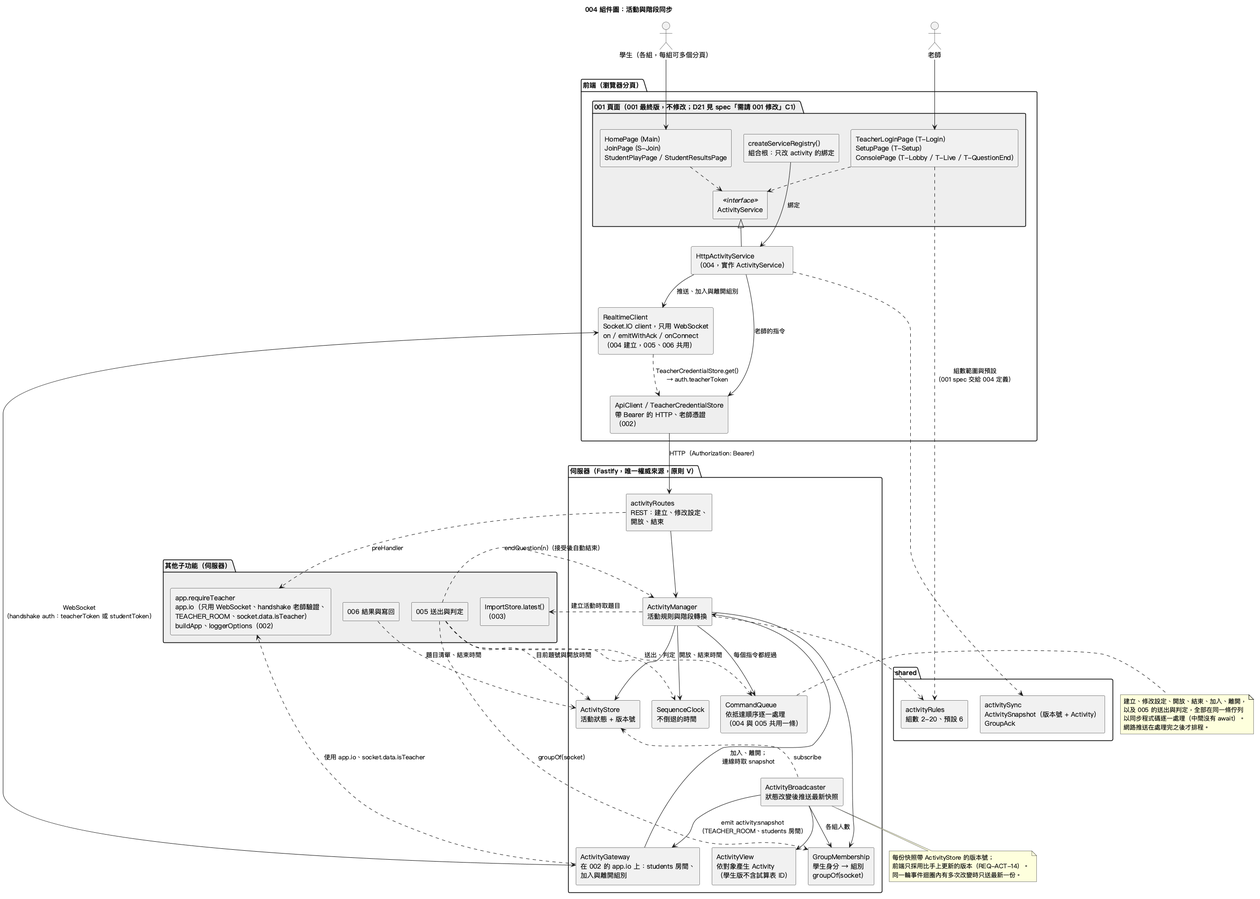
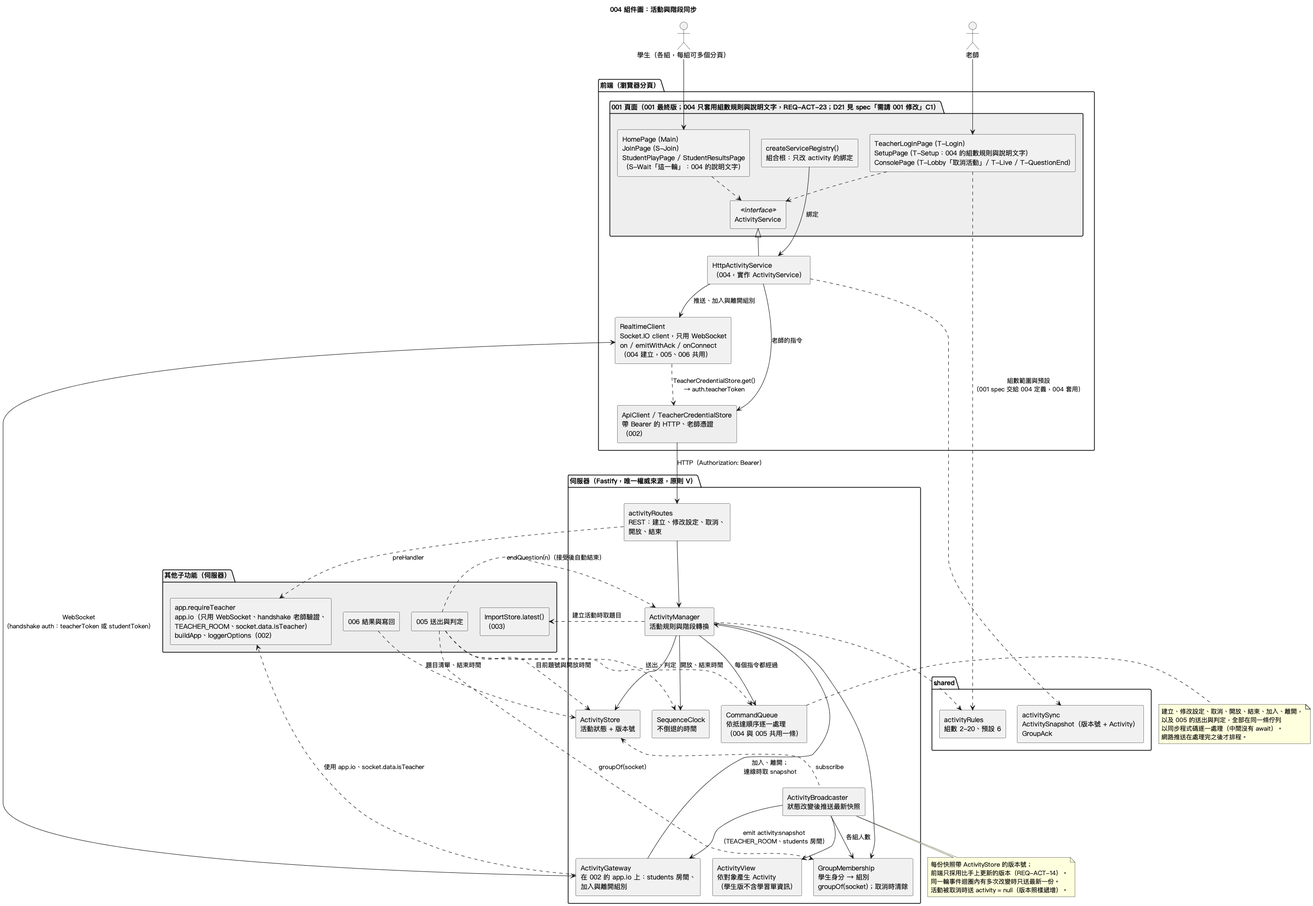
spec(004): add pre-start cancel and setup page rules
feature-split and 001 already let the teacher cancel an activity before
question 1 opens, but 004 still allowed only one activity per server run
and students were never told the activity was gone. 001 shipped without
004's group count rules and texts, and students no longer receive the
sheet title.

Refs: REQ-ACT-03, REQ-ACT-19, REQ-ACT-22, REQ-ACT-23, AC-33–AC-36, SC-007

diff --git a/specs/004-buzzer-session/spec.md b/specs/004-buzzer-session/spec.md
@@ -8,7 +8,7 @@
 
 **Input**: User description: "子功能：004 活動與階段同步（依 docs/feature-split.md，R3、R11）。老師建立活動並設定組數；學生加入時選擇組別；老師逐題開啟、結束搶答；所有使用者的活動階段同步，學生頁面隨階段自動切換。實作 001 的 ActivityService，處理 001 的 D4、D5、D9、D21、D22。"
 
-**追溯**: `docs/assignment.md` R3、R11；R1（伺服器拒絕非老師的操作，沿用 002）、R7（學生依組別加入）；001 D4、D5、D9、D21、D22；feature-split 第 4 節（同一組可有多位學生；結束最後一題時活動直接結束；最後一題被接受時活動一併結束）
+**追溯**: `docs/assignment.md` R3、R11；R1（伺服器拒絕非老師的操作，沿用 002）、R7（學生依組別加入）；001 D4、D5、D9、D21、D22；001 FR-026、FR-050、FR-051（取消活動）；feature-split 第 4 節（同一組可有多位學生；結束最後一題時活動直接結束；最後一題被接受時活動一併結束；只能在準備中取消活動；開放第 1 題後不能提前結束活動）
 
 **圖表**: `diagrams/004-component.puml`、`diagrams/004-class.puml`、`diagrams/004-sequence.puml`
 
@@ -19,6 +19,8 @@
 004 負責：
 
 - 老師建立活動、修改組數（R3）。
+- 老師在準備中（開放第 1 題之前）取消活動；取消後活動不存在，已加入的學生回到選組頁的「目前沒有活動」（R3、feature-split 第 4 節）。
+- 活動設定頁的組數規則（預設值、「−」「+」何時不可用）與 004 負責的說明文字（001 FR-023、FR-051 交給 004 定義；001 已完成，由 004 在這兩頁套用，不增減欄位、按鈕或頁面）。
 - 學生不需登入，選擇組別加入；同一組可以有多位學生（R7）。
 - 老師依題號一題一題開放、結束搶答；結束最後一題時活動一併結束（R3、D9）。
 - 活動階段只存在伺服器，任何改變都主動通知所有分頁；學生頁面依階段自動切換（R11）。
@@ -34,13 +36,13 @@
 | 公布每題與全部結果、寫回學習單 | 006 |
 | 頁面、按鈕與頁面切換的畫面 | 001（004 配合 001 的現況；仍需 001 修改的只有 D21，見「需請 001 修改」） |
 
-不做：每題限時與倒數、公平模式（E3）、活動名稱、開新一輪（一次伺服器執行期間只有一場活動）、學生加入網址、連線／離線狀態顯示、活動狀態存檔（伺服器重啟後活動消失）。
+不做：每題限時與倒數、公平模式（E3）、活動名稱、開新一輪（活動開放第 1 題之後就不能取消或提前結束，結束後也不能建立新活動；同一時間只有一場活動）、學生加入網址、連線／離線狀態顯示、活動狀態存檔（伺服器重啟後活動消失）。
 
 ## Clarifications
 
 ### Session 2026-11-21
 
-- Q: 組數的範圍？組數在邊界時「−」「+」怎麼呈現？（001 D4）→ A: 2 到 20 組的整數；組數為 2 時「−」不可用、為 20 時「+」不可用；伺服器再驗證一次（REQ-ACT-02）。（2026-11-22：001 spec 已把範圍、預設值與「−」「+」何時不可用交給 004 定義，001 實作 T-Setup 時照本規則，不列為請 001 修改）
+- Q: 組數的範圍？組數在邊界時「−」「+」怎麼呈現？（001 D4）→ A: 2 到 20 組的整數；組數為 2 時「−」不可用、為 20 時「+」不可用；伺服器再驗證一次（REQ-ACT-02）。（2026-11-22：001 spec 已把範圍、預設值與「−」「+」何時不可用交給 004 定義，不列為請 001 修改。2026-11-26：001 已完成但沒有套用，改由 004 套用，見 Session 2026-11-26）
 - Q: 組數的預設值？（001 D5）→ A: 6 組（REQ-ACT-02、AC-01）。
 - Q: 結束最後一題時，活動是否一併結束？（001 D9）→ A: 是。結束最後一題後階段直接是「已結束」，不另外經過最後一題的「本題已結束」（REQ-ACT-06）。（2026-11-22：feature-split 第 4 節已定案，001 的頁面切換已配合）
 - Q: 老師在活動進行中重新整理頁面時，活動要結束，還是讓老師登入後回到控制台？（001 D21）→ A: 活動繼續；老師用同一個帳號重新登入後，直接進入控制台目前的階段（REQ-ACT-21，需請 001 修改 C1）。（2026-11-22 修訂：001 修改前為暫時限制，見 Session 2026-11-22）
@@ -53,7 +55,7 @@
 - Q: 「已加入人數」是在線人數還是加入人數？→ A: 加入後沒有離開的學生分頁數；分頁關閉不減少（001 已拿掉連線／離線狀態）。
 - Q: 題目依什麼順序開放？可以跳題或重開嗎？→ A: 依題號由小到大一題一題開放，同一時間最多一題搶答中；不能跳題，已結束的題目不能重開（REQ-ACT-05）。
 - Q: 老師按「結束並公布結果」與 005 的「接受後自動結束」同時發生怎麼辦？→ A: 只結束一次；之後的要求得到目前的活動，不視為錯誤。連點「開放第 n 題」也一樣（REQ-ACT-07、AC-22）。
-- Q: 已結束的活動能不能開新一輪，或建立新活動？→ A: 都不行（不做開新一輪）；同一時間、一次伺服器執行期間只有一場活動（REQ-ACT-03）。
+- Q: 已結束的活動能不能開新一輪，或建立新活動？→ A: 都不行（不做開新一輪）；同一時間只有一場活動（REQ-ACT-03）。（2026-11-26 修訂：原本寫「一次伺服器執行期間只有一場活動」；依 feature-split 第 4 節，準備中取消後可以重新建立，見 Session 2026-11-26）
 - Q: 每題限時、公平模式、活動名稱、學生加入網址要不要做？→ A: 都不做。
 - Q: 活動狀態要不要存檔？→ A: 不要。只存在伺服器記憶體，伺服器重啟就沒了。
 - Q: 階段同步的時序如何保證？→ A: 沿用舊設計：狀態只在伺服器；改變狀態的操作依抵達順序逐一處理；每份推送的狀態帶遞增的版本號，頁面只採用較新的版本（REQ-ACT-14、17）。
@@ -65,31 +67,50 @@
 
 - Q: 001 的 `joinGroup` 回傳 `Promise<Activity>`，「第 1 題開放後換組」「沒有第 n 組」「目前沒有活動」怎麼呈現？→ A: 以 `UnexpectedError` reject，訊息寫出原因，顯示在選組頁的共通錯誤訊息區（001 FR-009），頁面停留在選組頁（REQ-ACT-11、AC-12）。不再請 001 把回傳型別改成含 `ValidationError`。
 - Q: D21 需要 001 在老師登入後依階段回到控制台，001 修改前怎麼辦？→ A: 伺服器保留活動，學生照常進行；老師重新登入後依 001 現況進入挑選學習單頁，回不到控制台。這是暫時限制：在這段期間沒有人能開放或結束題目；再建立活動會被拒絕並說明原因；要重新開始只能重新啟動伺服器（REQ-ACT-21、AC-26、AC-32）。
-- Q: 誰是老師？別人登入時原本的老師會怎樣？→ A: 依 001 與 feature-split 最新版，以 Google 登入的人就是老師；伺服器同一時間只有一個有效的老師憑證，任何人登入都會取代前一位老師（002）。被取代的老師分頁不再收到老師版的活動狀態，它的老師操作會被拒絕；新登入的人接手同一場活動（D21 的 001 修改完成後才能回到控制台）。
+- Q: 誰是老師？別人登入時原本的老師會怎樣？→ A: 依 001 與 feature-split 最新版，以 Google 登入的人就是老師；伺服器同一時間只有一個有效的老師憑證，任何人登入都會取代前一位老師（002）。被取代的老師分頁不再收到老師版的活動狀態，它的老師操作會被拒絕（2026-11-26：依 002 #18，這個分頁保留作廢的憑證，每次老師操作都顯示「老師登入已失效，請回首頁重新登入」）；新登入的人接手同一場活動（D21 的 001 修改完成後才能回到控制台）。
 - Q: 學生加入組別後去哪一頁？→ A: 依 001 最終版：準備中 → 等待開放頁；搶答中 → 由頁面再查本組這一題是否已送出（005）；本題已結束 → 本題結果頁；已結束 → 全部結果頁。004 只回傳活動，不決定頁面（AC-13、AC-14）。
 - Q: 控制台・準備中載入時要不要再查目前的活動？→ A: 不要。依 001 最終版，T-Lobby 使用建立活動或儲存設定回傳的活動，之後只靠「活動變化通知」更新人數（REQ-ACT-16）。
-- Q: 活動設定頁的「學生加入方式的說明」與等待開放頁的「這一輪的說明」由誰寫？→ A: 001 spec 已規定文字依 feature-split 3.2 與 004、005 的規則撰寫，所以由本 spec「說明文字」一節提供，001 實作時照用，不列為請 001 修改。
+- Q: 活動設定頁的「學生加入方式的說明」與等待開放頁的「這一輪的說明」由誰寫？→ A: 001 spec 已規定文字依 feature-split 3.2 與 004、005 的規則撰寫，所以由本 spec「說明文字」一節提供，001 實作時照用，不列為請 001 修改。（2026-11-26：001 已完成，見 Session 2026-11-26）
+
+### Session 2026-11-26
+
+依 main 上的 `docs/feature-split.md`（2026-11-24 加入取消活動）、001 最終版（Session 2026-11-24、FR-026、FR-050、FR-051、RD-12）與 002 #18 修訂；使用者決定以 main 上的檔案為準調整 004。
+
+- Q: 老師能否取消活動？→ A: 只能在準備中（開放第 1 題之前）取消。取消後活動不存在：老師回到挑選學習單頁，可以重新建立活動；已加入的學生回到選組頁的「目前沒有活動」（REQ-ACT-22、AC-33～36；feature-split 第 4 節、001 FR-026）。
+- Q: 開放第 1 題之後能否取消或提前結束活動？→ A: 不能，活動只在最後一題結束時結束；伺服器拒絕並說明「第 1 題開放後不能取消活動」（REQ-ACT-22、AC-35）。
+- Q: 取消後學生的加入紀錄怎麼辦？→ A: 全部清除。下一場活動的各組人數從 0 開始；學生分頁保留原本的學生身分，但不再屬於任何組別，要重新選組（REQ-ACT-22、AC-34）。
+- Q: 活動被取消時，學生頁面怎麼知道？→ A: 依 001 RD-12，階段改變的通知以「沒有活動」表示活動已被取消；首頁、選組頁、等待開放頁收到後切換（REQ-ACT-16、AC-33）。
+- Q: 連點「確定取消活動」，第二次時活動已經不存在怎麼辦？→ A: 視為成功、不改變，與連點開放或結束相同（REQ-ACT-07、AC-36）。
+- Q: 允許取消後，「已經有活動時再建立」的訊息還要說「重新啟動伺服器」嗎？→ A: 要。這個情況只會在老師失去控制台時發生（D21 暫時限制下重新登入，或被別人登入取代），老師回不到控制台，也就無法取消；要重新開始仍只能重新啟動伺服器（AC-06、AC-32）。
+- Q: 001 已完成，但活動設定頁的組數沒有上下限（「−」可減到 0），預設值寫死在頁面，等待開放頁的「這一輪」只有題數，誰來補？→ A: 依 001 spec 範圍原則與 FR-023，這些規則屬於 004，001 只保留位置。由 004 在活動設定頁與等待開放頁套用 004 的規則與文字，不增減欄位、按鈕或頁面，所以不需修改 001 的 spec（REQ-ACT-02、REQ-ACT-23、AC-01、AC-02）。
+- Q: 活動設定頁「學生加入」的文字以誰為準？→ A: 以 001 已實作的文字為基礎，加上 004 的換組規則（「說明文字」一節）。
+- Q: 學生收到的活動資料要遮掉哪些學習單資訊？→ A: 學生頁面用不到任何學習單資訊，試算表 ID、標題、工作表名稱都不給（REQ-ACT-19）。
+- Q: D21 的 C1 狀態？→ A: 001 已完成且沒有納入 C1，001 spec 的 D21 仍待處理。C1 保留為請 001 修改的項目，修改前維持暫時限制（「需請 001 修改」）。
 
 ## User Scenarios & Testing *(mandatory)*
 
 ### User Story 1 - 老師建立活動並設定組數 (Priority: P1)
 
-老師匯入學習單後，在活動設定頁設定組數（預設 6 組），建立活動。活動進入「準備中」，學生頁面看得到這個活動與組別。開放第 1 題之前，老師可以修改組數。
+老師匯入學習單後，在活動設定頁設定組數（預設 6 組），建立活動。活動進入「準備中」，學生頁面看得到這個活動與組別。開放第 1 題之前，老師可以修改組數，也可以取消活動、回到挑選學習單重新建立。
 
 **Why this priority**: 沒有活動就沒有搶答（R3）。
 
-**Independent Test**: 用一份假的匯入結果建立 4 組的活動，檢查活動的題目、組別與階段；再改成 6 組，開著的學生分頁跟著更新。
+**Independent Test**: 用一份假的匯入結果建立 4 組的活動，檢查活動的題目、組別與階段；再改成 6 組，開著的學生分頁跟著更新；取消活動後學生分頁回到「目前沒有活動」，再建立一次各組人數從 0 開始。
 
 **Acceptance Scenarios**:
 
-1. **AC-01** **Given** 老師已登入且已成功匯入一份 4 題的學習單，**When** 進入活動設定頁（建立模式），**Then** 組數預設為 6，組別清單列出第 1–6 組。
-2. **AC-02** **Given** 活動設定頁的組數為 2，**When** 檢視組數欄位，**Then**「−」不可用；組數為 20 時「+」不可用。
+1. **AC-01** **Given** 老師已登入且已成功匯入一份 4 題的學習單，**When** 進入活動設定頁（建立模式），**Then** 組數預設為 6，組別清單列出第 1–6 組；「這一輪」的學生加入說明為「說明文字」一節的內容。
+2. **AC-02** **Given** 活動設定頁的組數為 2，**When** 檢視組數欄位，**Then**「−」不可用，連按也不會小於 2；組數為 20 時「+」不可用，連按也不會大於 20。
 3. **AC-03** **Given** 活動設定頁的組數為 4，**When** 老師按「建立活動」，**Then** 活動進入「準備中」，題目為匯入的 4 題，第 1–4 組各 0 人；已開著首頁或選組頁的分頁在 1 秒內看到這個活動。
 4. **AC-04** **Given** 有人繞過頁面直接要求組數 1、21 或 3.5，**When** 建立活動或儲存設定，**Then** 系統拒絕，在組數欄位旁顯示「組數必須是 2 到 20 之間的整數」，活動不變。
 5. **AC-05** **Given** 準備中且第 5 組已有 1 位學生，**When** 老師把組數改成 4 並儲存，**Then** 系統拒絕並顯示「第 5 組已有學生加入，組數不能少於 5」；改成 8 則成功，所有分頁在 1 秒內看到 8 組。
 6. **AC-06** **Given** 已經有活動（任何階段），**When** 再要求建立活動，**Then** 系統拒絕，共通錯誤訊息區說明「已經有進行中的活動，不能再建立；要重新開始請重新啟動伺服器」，原本的活動不變。
-7. **AC-07** **Given** 一個沒有老師身分的分頁（包括與老師在同一個瀏覽器的學生分頁），**When** 要求建立活動、修改設定、開放或結束題目，**Then** 系統拒絕，活動不變。
+7. **AC-07** **Given** 一個沒有老師身分的分頁（包括與老師在同一個瀏覽器的學生分頁），**When** 要求建立活動、修改設定、取消活動、開放或結束題目，**Then** 系統拒絕，活動不變。
 8. **AC-08** **Given** 第 1 題已開放過，**When** 要求修改設定，**Then** 系統拒絕並說明「第 1 題開放後不能修改設定」。
+9. **AC-33** **Given** 準備中、4 組，第 3 組有 2 個學生分頁在等待開放頁、另一個學生分頁停在選組頁且已選第 1 組、一個分頁在首頁，**When** 老師在控制台・準備中按「取消活動」並在確認視窗按「確定取消活動」，**Then** 老師進入挑選學習單頁；1 秒內等待開放頁的分頁切到選組頁，選組頁顯示「目前沒有活動，請等老師建立活動」且已選的組別被清除，首頁顯示沒有活動。
+10. **AC-34** **Given** AC-33 之後，**When** 老師挑選學習單並建立 4 組的活動，原本在第 3 組的學生分頁加入第 1 組，**Then** 建立成功；各組人數從 0 開始，第 1 組 1 人、第 3 組 0 人。
+11. **AC-35** **Given** 第 1 題已開放過（之後任何階段），**When** 有人繞過頁面要求取消活動，**Then** 系統拒絕並說明「第 1 題開放後不能取消活動」，活動不變。
+12. **AC-36** **Given** 沒有活動（例如連點「確定取消活動」的第二次），**When** 老師要求取消活動，**Then** 視為成功，不改變任何狀態。
 
 ---
 
@@ -103,14 +124,14 @@
 
 **Acceptance Scenarios**:
 
-1. **AC-09** **Given** 活動準備中、6 組，**When** 學生在選組頁選第 3 組並按「加入第 3 組」，**Then** 進入等待開放頁；老師控制台在 1 秒內顯示第 3 組人數加 1。
+1. **AC-09** **Given** 活動準備中、6 組，**When** 學生在選組頁選第 3 組並按「加入第 3 組」，**Then** 進入等待開放頁，「這一輪」顯示題數與「說明文字」一節的內容；老師控制台在 1 秒內顯示第 3 組人數加 1。
 2. **AC-10** **Given** 第 3 組已有 1 人，**When** 另一個分頁也加入第 3 組，**Then** 加入成功，第 3 組為 2 人。
 3. **AC-11** **Given** 準備中，學生在第 3 組，**When** 按「選錯組別？重新選擇」後加入第 5 組，**Then** 第 3 組人數減 1、第 5 組加 1。
 4. **AC-12** **Given** 第 1 題已開放過（之後任何階段），**When** 已在第 3 組的分頁要求加入第 5 組或離開組別，**Then** 系統拒絕，頁面停留在原頁，共通錯誤訊息區顯示「第 1 題開放後不能換組，你在第 3 組」；該分頁仍在第 3 組。
 5. **AC-13** **Given** 第 2 題搶答中，**When** 一個還沒加入任何組別的新分頁加入第 4 組，**Then** 加入成功，回傳的活動為第 2 題搶答中；頁面依 001 進入第 2 題（本組還沒送出時為作答頁，同組組員已送出時為等待判定頁，由 005 判斷）。
 6. **AC-14** **Given** 學生在第 3 組，第 2 題搶答中，**When** 學生重新整理後從首頁選「我是學生」、選第 3 組加入，**Then** 回到第 3 組（人數不重複計算），回傳的活動為第 2 題搶答中，頁面依 001 進入第 2 題；伺服器判斷的組別仍是第 3 組。
 7. **AC-15** **Given** 沒有活動，**When** 學生開啟選組頁，**Then** 顯示「目前沒有活動，請等老師建立活動」；老師建立活動後 1 秒內自動列出組別。
-8. **AC-16** **Given** 任一學生分頁，**When** 檢查它從系統收到的所有活動資料，**Then** 不含學習單的試算表 ID，也不含任何組別的作答資料。
+8. **AC-16** **Given** 任一學生分頁，**When** 檢查它從系統收到的所有活動資料，**Then** 不含學習單的試算表 ID、標題與工作表名稱，也不含任何組別的作答資料。
 
 ---
 
@@ -184,6 +205,10 @@
 - 活動進行中有人（原本的老師或其他人）以 Google 登入：依 002，新登入的人取代前一位老師，前一位老師分頁的老師操作被拒絕、不再收到老師版的活動狀態；活動本身不變（AC-32）。
 - 伺服器重新啟動：活動與所有組別都消失（RD-05 接受的限制）。已開著的頁面不會自動切換；重新整理後首頁顯示「目前沒有活動」，學生原本的組別不再有效。
 - 已結束的活動不能重新開始，也不能建立新活動（不做開新一輪）；要再玩一場須重新啟動伺服器。
+- 老師取消活動的同時有學生按「加入第 n 組」：以伺服器處理的先後為準；加入在後時被拒絕，共通錯誤訊息區顯示「目前沒有活動」，選組頁隨後顯示「目前沒有活動」（AC-33）。
+- 老師取消活動的同時，同一個老師憑證的另一個分頁（例如瀏覽器「複製分頁」）開放第 1 題：以伺服器處理的先後為準；開放在先時取消被拒絕（AC-35），取消在先時開放得到「目前沒有活動」。
+- 準備中老師重新整理並重新登入（001 C1 完成前）：回不到控制台，所以也無法取消活動；再建立活動被拒絕，要重新開始只能重新啟動伺服器（AC-32）。
+- 取消後學生分頁保留原本的學生身分，但不屬於任何組別；重新整理後選任何一組都視為第一次加入（AC-34）。
 - 匯入的學習單在活動建立後才改變：不影響活動，活動的題目在建立時固定。
 
 ## Requirements *(mandatory)*
@@ -194,16 +219,18 @@
 
 - **REQ-ACT-01**（R3）：老師 MUST 能以 003 最近一次成功匯入的學習單建立活動；活動的題目在建立時固定。沒有成功匯入的學習單時 MUST 拒絕並說明「請先匯入學習單」。
 - **REQ-ACT-02**（R3、001 D4、D5）：組數 MUST 是 2 到 20 之間的整數，預設 6；組別名稱為「第 n 組」。活動設定頁的組數為 2 時「−」不可用、為 20 時「+」不可用（001 spec US2 AC-7、FR-023 已把這些規則交給 004；001 實作 T-Setup 時引用 004 提供的常數）。伺服器 MUST 再驗證一次，不符時拒絕，組數欄位旁顯示「組數必須是 2 到 20 之間的整數」（原則 VII）。
-- **REQ-ACT-03**（R3）：系統同一時間 MUST 最多只有一場活動；已有活動時（任何階段）MUST 拒絕建立新活動。
+- **REQ-ACT-03**（R3）：系統同一時間 MUST 最多只有一場活動；已有活動時（任何階段）MUST 拒絕建立新活動，並說明「已經有進行中的活動，不能再建立；要重新開始請重新啟動伺服器」。活動被取消（REQ-ACT-22）後 MUST 允許再建立。
 - **REQ-ACT-04**（R3、R7）：老師 MUST 只能在第 1 題開放前修改組數；新組數 MUST 不少於目前已有學生的最大組別編號，否則拒絕並說明「第 n 組已有學生加入，組數不能少於 n」。
+- **REQ-ACT-22**（R3、feature-split 第 4 節、001 FR-026）：老師 MUST 能在準備中取消活動。取消後活動不存在：所有組別與學生的加入紀錄 MUST 一併清除，下一場活動的人數從 0 開始；所有分頁 MUST 收到「沒有活動」（REQ-ACT-16）。第 1 題開放後 MUST 拒絕取消，說明「第 1 題開放後不能取消活動」，活動不變；系統 MUST NOT 提供開放第 1 題後提前結束活動的方式。沒有活動時要求取消 MUST 視為成功、不改變狀態（連點）。
+- **REQ-ACT-23**（001 FR-023、FR-051）：活動設定頁的組數 MUST 以 REQ-ACT-02 的預設值開始（建立模式），「−」「+」依 REQ-ACT-02 不可用；活動設定頁「學生加入」與等待開放頁「這一輪」MUST 顯示「說明文字」一節的內容。只套用 004 的規則與文字，MUST NOT 增減 001 的欄位、按鈕或頁面。
 
 #### 逐題開放與結束
 
 - **REQ-ACT-05**（R3）：活動階段 MUST 依序為「準備中 → 第 1 題搶答中 → 第 1 題已結束 → 第 2 題搶答中 → … → 最後一題已結束」，只能往前、不能倒退，同一時間最多一題搶答中。準備中只能開放第 1 題；第 n 題已結束時只能開放第 n+1 題；只能結束目前搶答中的那一題。不符合時 MUST 拒絕並說明，活動不變。
 - **REQ-ACT-06**（R3、001 D9）：結束最後一題時，活動 MUST 一併進入「已結束」，不另外顯示最後一題的「已結束」階段（feature-split 第 4 節）。
-- **REQ-ACT-07**（R3）：重複要求開放目前已開放的題目，或結束已經結束的題目（連點、或老師結束與 005 的自動結束同時發生），MUST 只生效一次，之後的要求得到目前的活動，不視為錯誤。
+- **REQ-ACT-07**（R3）：重複要求開放目前已開放的題目、結束已經結束的題目（連點、或老師結束與 005 的自動結束同時發生），或取消已經不存在的活動，MUST 只生效一次，之後的要求得到目前的活動，不視為錯誤。
 - **REQ-ACT-08**（R3、005）：結束一題的操作 MUST 也能由 005 在老師接受答案時觸發，效果與老師按「結束並公布結果」相同；最後一題被接受時活動一併結束（feature-split 3.2、第 4 節）。
-- **REQ-ACT-09**（R1、原則 VI）：建立活動、修改設定、開放與結束題目 MUST 只有老師（以 Google 登入、持有目前有效老師憑證的分頁）能執行；伺服器依 002 的驗證拒絕其他請求。同一個瀏覽器的學生分頁、被後來登入者取代的前一位老師分頁也不能執行。
+- **REQ-ACT-09**（R1、原則 VI）：建立活動、修改設定、取消活動、開放與結束題目 MUST 只有老師（以 Google 登入、持有目前有效老師憑證的分頁）能執行；伺服器依 002 的驗證拒絕其他請求。同一個瀏覽器的學生分頁、被後來登入者取代的前一位老師分頁也不能執行。
 
 #### 組別
 
@@ -214,12 +241,12 @@
 
 #### 階段同步
 
-- **REQ-ACT-14**（R11、原則 V）：活動狀態（階段、目前題號、組數、各組已加入人數）MUST 只存在伺服器。狀態每次改變，伺服器 MUST 主動把完整的狀態送給所有連線中的分頁；每份狀態帶一個遞增的版本號，頁面只採用比目前更新的版本，不自行推導或修改狀態。
+- **REQ-ACT-14**（R11、原則 V）：活動狀態（有沒有活動、階段、目前題號、組數、各組已加入人數）MUST 只存在伺服器。狀態每次改變（包括活動被取消而變成沒有活動），伺服器 MUST 主動把完整的狀態送給所有連線中的分頁；每份狀態帶一個遞增的版本號，頁面只採用比目前更新的版本，不自行推導或修改狀態。
 - **REQ-ACT-15**（R11）：分頁連線或重新連線時 MUST 立即收到目前的狀態。
-- **REQ-ACT-16**（R11）：階段改變時，首頁與所有學生頁面 MUST 在 1 秒內依 001「階段推動的切換」表自動切換；老師端在學生加入或離開時 MUST 在 1 秒內更新各組已加入人數（控制台・準備中以建立或儲存設定回傳的活動為起點，之後只靠變化通知更新）。
-- **REQ-ACT-17**（R11）：改變活動狀態的操作（建立、修改設定、開放與結束題目、加入與離開組別，以及 005 的送出與判定）MUST 由伺服器依抵達順序逐一處理，一筆處理完才處理下一筆；同時抵達的操作以處理的先後為準。
+- **REQ-ACT-16**（R11）：階段改變時（包括活動被建立或取消），首頁與所有學生頁面 MUST 在 1 秒內依 001「階段推動的切換」表自動切換；活動被取消時，通知的內容是「沒有活動」（001 RD-12）；老師端在學生加入或離開時 MUST 在 1 秒內更新各組已加入人數（控制台・準備中以建立或儲存設定回傳的活動為起點，之後只靠變化通知更新）。
+- **REQ-ACT-17**（R11）：改變活動狀態的操作（建立、修改設定、取消、開放與結束題目、加入與離開組別，以及 005 的送出與判定）MUST 由伺服器依抵達順序逐一處理，一筆處理完才處理下一筆；同時抵達的操作以處理的先後為準。
 - **REQ-ACT-18**（R4、005）：系統 MUST 記錄每一題開放與結束的時間，時間不受電腦時鐘調整影響（不會倒退），供 005 計算「開放後經過的時間」、006 顯示結束時間。
-- **REQ-ACT-19**（原則 VI）：學生分頁收到的活動狀態 MUST 只包含階段、目前題號、題目清單（題號、類型、題目敘述、小題與填空格位置）、組數與各組已加入人數；不含學習單的試算表 ID，也不含任何作答資料。這個限制在伺服器端執行。
+- **REQ-ACT-19**（原則 VI）：學生分頁收到的活動狀態 MUST 只包含階段、目前題號、題目清單（題號、類型、題目敘述、小題與填空格位置）、組數與各組已加入人數；不含學習單的試算表 ID、標題與工作表名稱，也不含任何作答資料。這個限制在伺服器端執行。
 - **REQ-ACT-20**（001 D22）：即時連線 MUST 只使用 WebSocket，不使用長輪詢。
 
 #### 老師重新整理
@@ -233,23 +260,23 @@
 
 ### 說明文字
 
-001 在活動設定頁「學生加入方式的說明」與等待開放頁「這一輪的說明」只保留位置，文字依 feature-split 3.2 與 004、005 的規則撰寫（001 spec「相對於設計稿的調整」末段、FR-023）。004 負責的部分文字如下，001 實作時照用；成功規則的文字由 005 提供：
+001 在活動設定頁「學生加入方式的說明」與等待開放頁「這一輪的說明」只保留位置，文字依 feature-split 3.2 與 004、005 的規則撰寫（001 spec「相對於設計稿的調整」末段、FR-023、FR-051）。001 已完成：活動設定頁的「學生加入」已有文字，等待開放頁的「這一輪」只顯示題數。004 負責的部分文字如下，由 004 套用（REQ-ACT-23）；成功規則的文字由 005 提供，001 已有的成功規則文字 004 不改：
 
-- 活動設定頁「學生加入方式的說明」：「學生在首頁選『我是學生』，選擇組別後加入，不需要登入。同一組可以有多位學生。第 1 題開放後不能換組。」
-- 等待開放頁「這一輪的說明」：「老師會一題一題開放。第 1 題開放後不能換組。」
+- 活動設定頁「學生加入」：「學生在首頁選「我是學生」，再選自己的組別加入。同一組可以有多位同學，任何人送出都代表整組。第 1 題開放後不能換組。」（001 已有的文字加上最後一句）
+- 等待開放頁「這一輪」：保留 001 的題數，下方加上「老師會一題一題開放。第 1 題開放後不能換組。」
 
 ### 需請 001 修改
 
 | # | 要改什麼 | 為什麼 | 修改前的處理 |
 | --- | --- | --- | --- |
-| C1 | 老師登入成功後的目的頁：先呼叫 `ActivityService.getCurrentActivity()`，沒有活動時進入 T-Pick（不變）；`PREPARING` → T-Lobby、`OPEN` → T-Live（第 n 題）、`QUESTION_ENDED` → T-QuestionEnd（第 n 題）、`FINISHED` → T-Results。修改 spec「頁面與按鈕」T-Login 列、畫面流程圖、`AppRouter`，以及 research RD-11 的說明（重新整理仍回首頁，但老師登入後可回到控制台）。已在 PR #10 留言，001 實作時再改 | D21 決定「活動繼續，老師重新登入後回到控制台」（REQ-ACT-21、AC-26） | 暫時限制：老師登入後進入 T-Pick，回不到控制台；活動與學生不受影響（AC-32） |
+| C1 | 老師登入成功後的目的頁：先呼叫 `ActivityService.getCurrentActivity()`，沒有活動時進入 T-Pick（不變）；`PREPARING` → T-Lobby、`OPEN` → T-Live（第 n 題）、`QUESTION_ENDED` → T-QuestionEnd（第 n 題）、`FINISHED` → T-Results。修改 spec「頁面與按鈕」T-Login 列、畫面流程圖、`AppRouter`，以及 research RD-11 的說明（重新整理仍回首頁，但老師登入後可回到控制台）。已在 PR #10 留言；001 已完成但沒有納入（001 spec D21 仍待處理），需另外修改 001 spec 後才能做 | D21 決定「活動繼續，老師重新登入後回到控制台」（REQ-ACT-21、AC-26） | 暫時限制：老師登入後進入 T-Pick，回不到控制台；活動與學生不受影響（AC-32） |
 
-上一輪列出的 C2（`joinGroup` 回傳 `ValidationError`）、C3（組數範圍與預設值）、C4（說明文字）、C5（`FINISHED` 與加入時依階段切換）已移除：C2 改用 `UnexpectedError`；C3、C4 是 001 spec 已交給 004 定義的規則；C5 已由 001 最終版完成。
+上一輪列出的 C2（`joinGroup` 回傳 `ValidationError`）、C3（組數範圍與預設值）、C4（說明文字）、C5（`FINISHED` 與加入時依階段切換）已移除：C2 改用 `UnexpectedError`；C3、C4 是 001 spec 已交給 004 定義的規則（2026-11-26 起由 004 套用，REQ-ACT-23）；C5 已由 001 最終版完成。取消活動的頁面（001 FR-026、FR-050、FR-051）001 已完成，不需請 001 修改。
 
 ### Key Entities *(include if feature involves data)*
 
 - **活動**：一場搶答。題目清單（建立時從 003 取得，之後不變）、組數、階段、目前題號、每題開放與結束的時間。沒有名稱。
-- **活動階段**：準備中、搶答中（第 n 題）、本題已結束（第 n 題）、已結束；沒有活動時另外表示為「沒有活動」。
+- **活動階段**：準備中、搶答中（第 n 題）、本題已結束（第 n 題）、已結束；沒有活動（還沒建立或已取消）時另外表示為「沒有活動」。
 - **組別**：組別編號（1 到組數）、已加入人數。
 - **學生身分**：一個學生分頁的身分。不需登入；由伺服器發給分頁，重新整理後仍有效，分頁關閉後不再使用。記錄所屬組別。
 - **活動狀態版本**：伺服器每次改變活動狀態時遞增的版本號，頁面據此只採用較新的狀態。
@@ -263,7 +290,8 @@
 - **SC-003**：學生端收到的所有活動資料中，試算表 ID 與任何組別的作答資料出現 0 次。
 - **SC-004**：「建立活動 → 3 組學生加入 → 依序開放並結束 4 題 → 活動已結束」的完整流程能在 3 分鐘內展示完畢，過程中不需要手動重新整理任何分頁。
 - **SC-005**：老師在活動進行中重新整理後，學生分頁 100% 不受影響（活動階段不變、仍能收到之後的狀態）；001 完成 C1 後，老師 30 秒內能重新登入並回到控制台目前的階段。
-- **SC-006**：沒有老師身分的請求要求建立活動、修改設定、開放或結束題目，100% 被拒絕且活動不變。
+- **SC-006**：沒有老師身分的請求要求建立活動、修改設定、取消活動、開放或結束題目，100% 被拒絕且活動不變。
+- **SC-007**：準備中取消活動後，所有開著的學生分頁 1 秒內顯示「目前沒有活動」；老師重新建立活動時，各組人數 100% 從 0 開始。
 
 ## Assumptions
 

diff --git a/specs/004-buzzer-session/checklists/requirements.md b/specs/004-buzzer-session/checklists/requirements.md
@@ -32,10 +32,11 @@
 ## Notes
 
 - 「需請 001 修改」一節引用 001 的介面名稱（`getCurrentActivity`），因為那一節是給 001 負責人看的修改清單，必須指出確切位置；需求本身（REQ-ACT-*）不指定技術。REQ-ACT-20 的「WebSocket」是 001 D22 已定案的限制，照抄。
-- 追溯：R3 → REQ-ACT-01～09；R7 → 08、10、11、13；R11 → 13～17、NFR-01；原則 VI → 09、12、19；001 D4、D5 → 02；D9 → 06；D21 → 21；D22 → 20；feature-split 第 4 節（同一組多位學生）→ 10。
-- 每條 REQ 都有對應的 AC：01→AC-03；02→AC-01、02、04；03→AC-06；04→AC-05、08；05→AC-17～21；06→AC-20；07→AC-22；08→AC-22；09→AC-07；10→AC-09、10；11→AC-11、12、13；12→AC-14、16；13→AC-14；14→AC-24；15→AC-23；16→AC-15、17～19；17→AC-22、29；18→AC-30；19→AC-16；20→AC-31；21→AC-25～27、32；NFR-01→AC-28；NFR-02→AC-29。
+- 追溯：R3 → REQ-ACT-01～09、22；R7 → 08、10、11、13；R11 → 13～17、NFR-01；原則 VI → 09、12、19；001 D4、D5 → 02、23；001 FR-023、FR-051 → 23；001 FR-026 → 22；D9 → 06；D21 → 21；D22 → 20；feature-split 第 4 節（同一組多位學生）→ 10；（取消活動、不能提前結束）→ 22。
+- 每條 REQ 都有對應的 AC：01→AC-03；02→AC-01、02、04；03→AC-06、34；04→AC-05、08；05→AC-17～21；06→AC-20；07→AC-22、36；08→AC-22；09→AC-07；10→AC-09、10；11→AC-11、12、13；12→AC-14、16；13→AC-14；14→AC-24、33；15→AC-23；16→AC-15、17～19、33；17→AC-22、29；18→AC-30；19→AC-16；20→AC-31；21→AC-25～27、32；22→AC-33～36；23→AC-01、02、09；NFR-01→AC-28；NFR-02→AC-29。
 - 圖表：`diagrams/004-component`、`004-class`、`004-sequence` 的 `.puml` 與 `.png` 均已產生。
 - 2026-11-21 specify：16 項全部通過。
 - 2026-11-21 clarify：001 D4、D5、D9、D21、D22、feature-split 第 4 節，以及使用者已定案的決定，共 18 條寫入 Clarifications；spec 沒有 `[NEEDS CLARIFICATION]`。重新檢查後 16 項仍全部通過。
 - 2026-11-21 analyze 前自我檢查：REQ-ACT-18、20 原本沒有 AC，補上 AC-30、AC-31。
 - 2026-11-22 配合 001 最終版（PR #10）：「需請 001 修改」只留 C1（D21，修改前為暫時限制，新增 AC-32）；`joinGroup` 的預期失敗改用 `UnexpectedError`；老師規則改為任何人登入都取代前一位老師。新增 Clarifications Session 2026-11-22。重新檢查後 16 項仍全部通過。
+- 2026-11-26 依 main 上的 feature-split（取消活動）、001 最終版（FR-026、FR-050、FR-051、RD-12）與 002 #18 修訂：新增 REQ-ACT-22（取消活動，AC-33～36）、REQ-ACT-23（由 004 在活動設定頁與等待開放頁套用組數規則與說明文字）；REQ-ACT-03 改為取消後可以再建立；REQ-ACT-19 學生資料不含學習單標題與工作表名稱；C1 註明 001 未納入。新增 Clarifications Session 2026-11-26、SC-007。重新檢查後 16 項仍全部通過。
